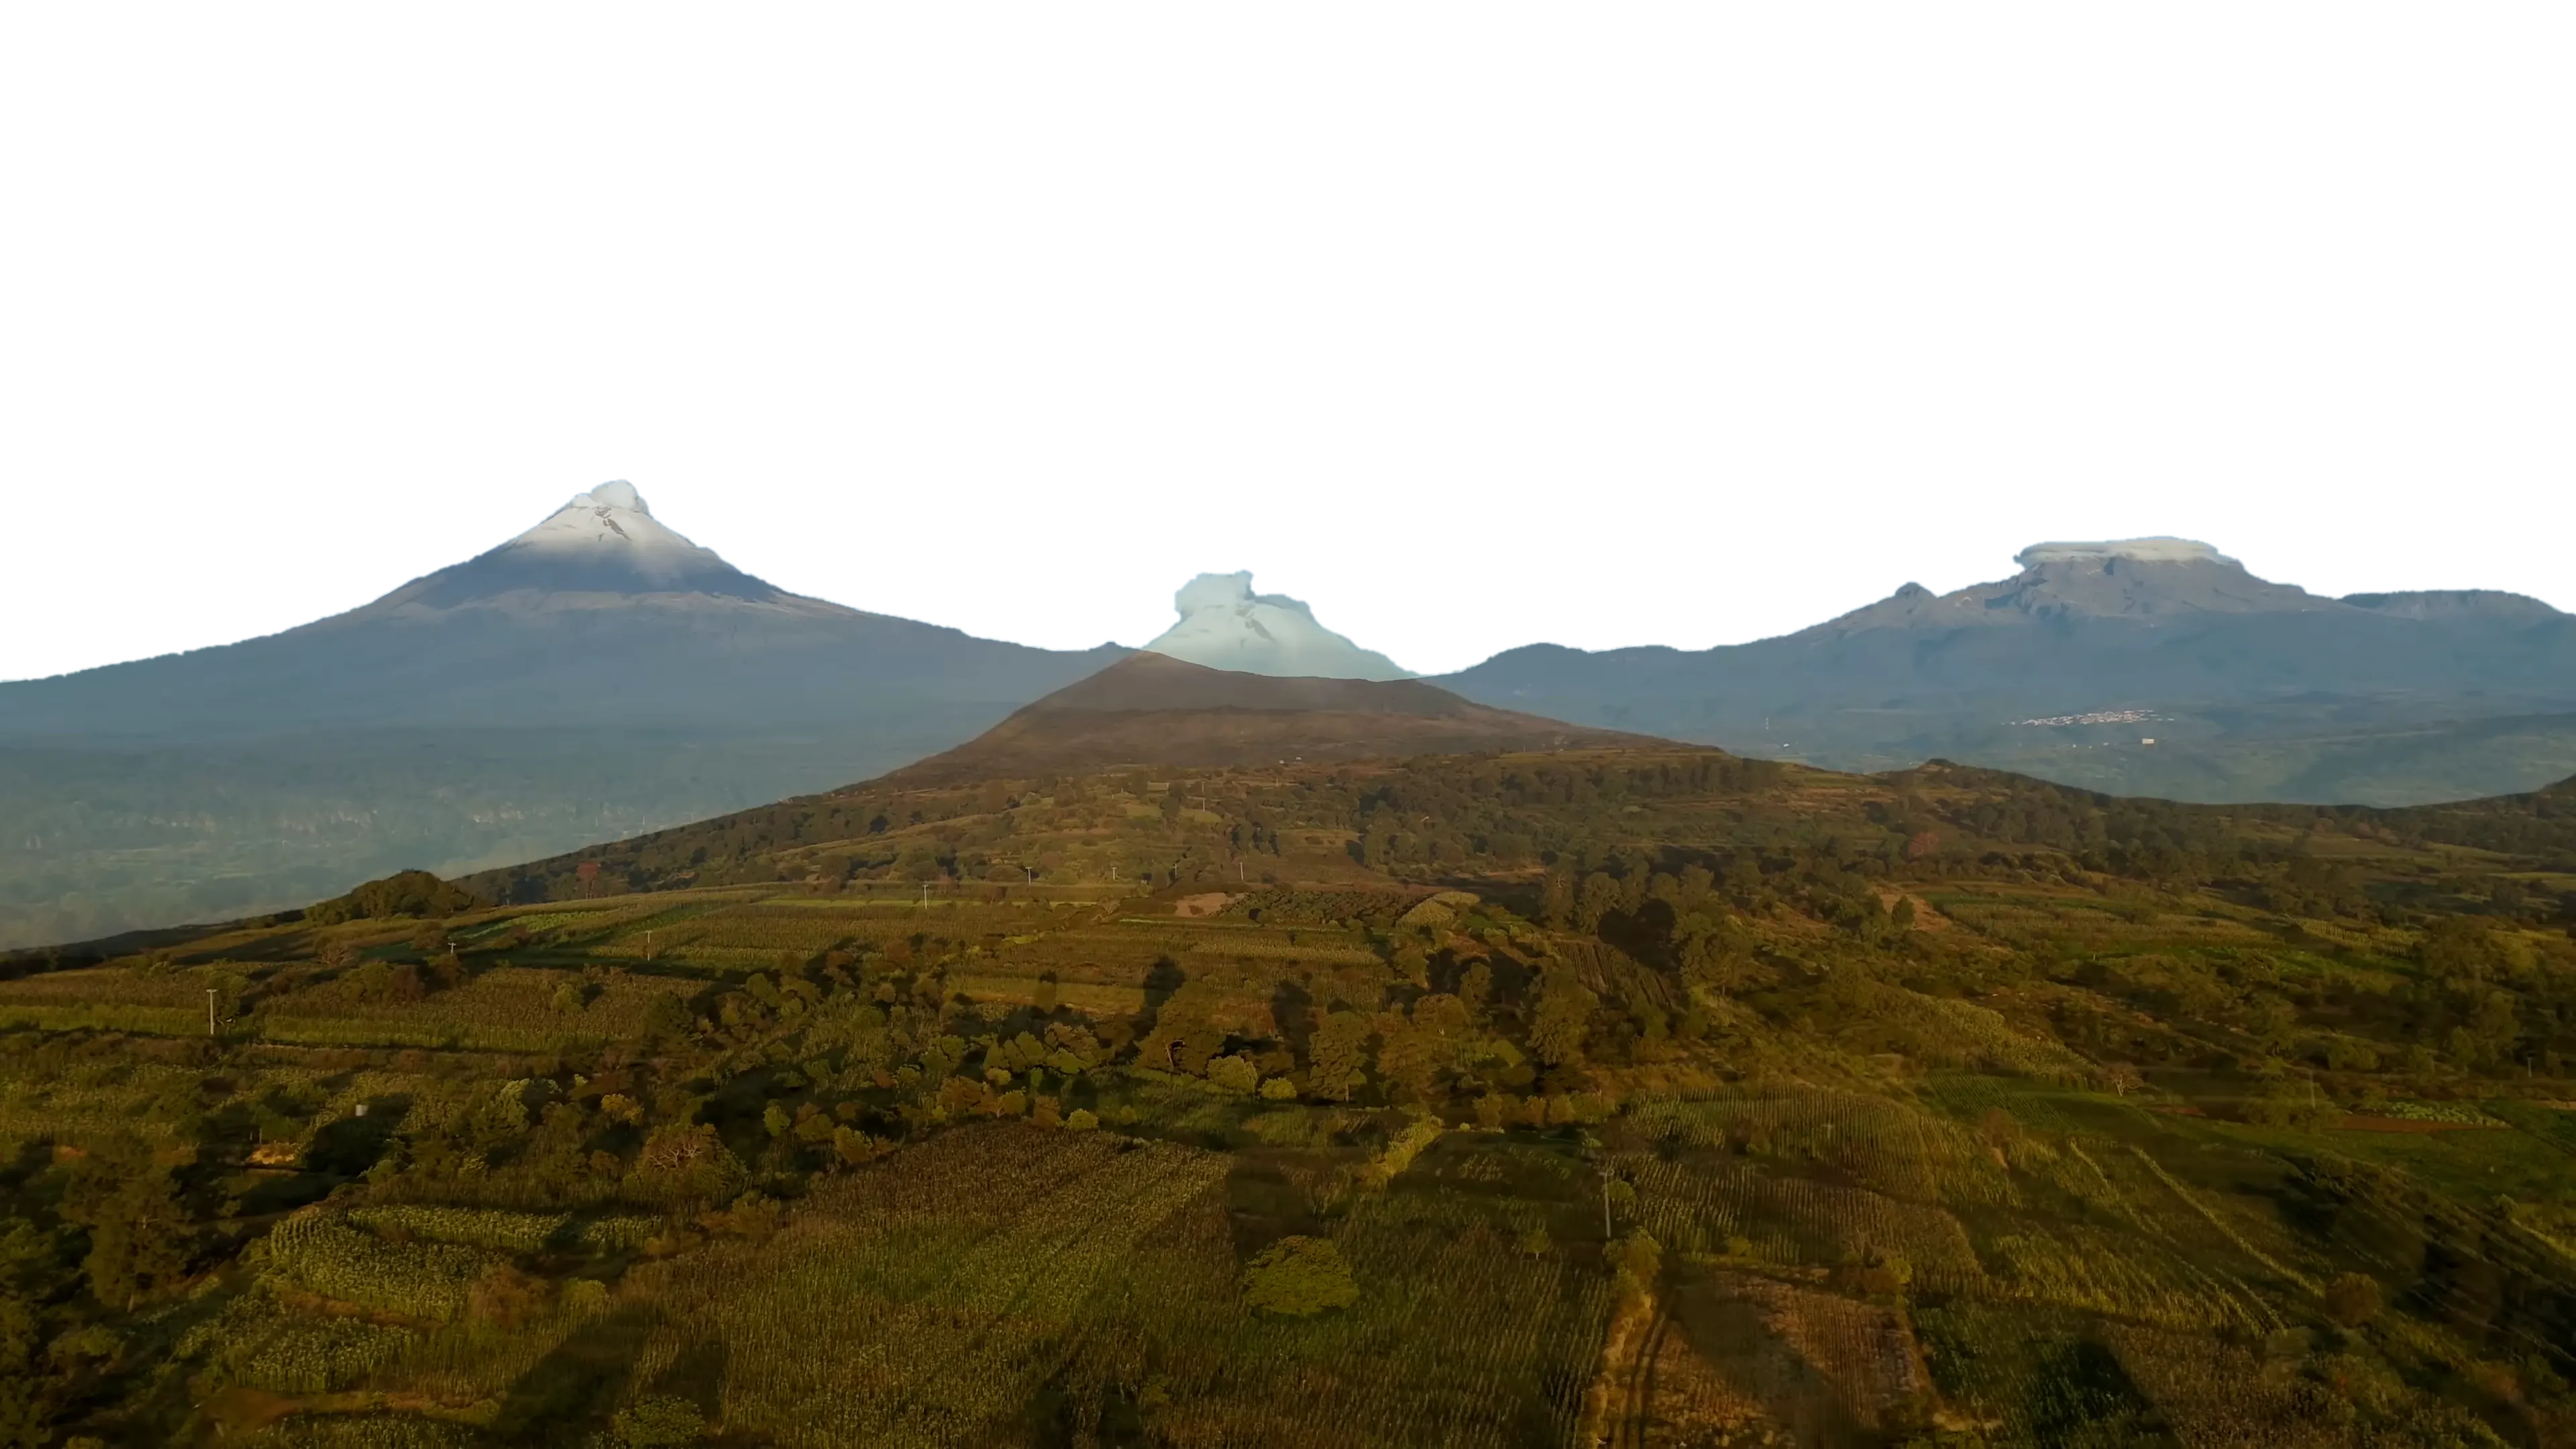
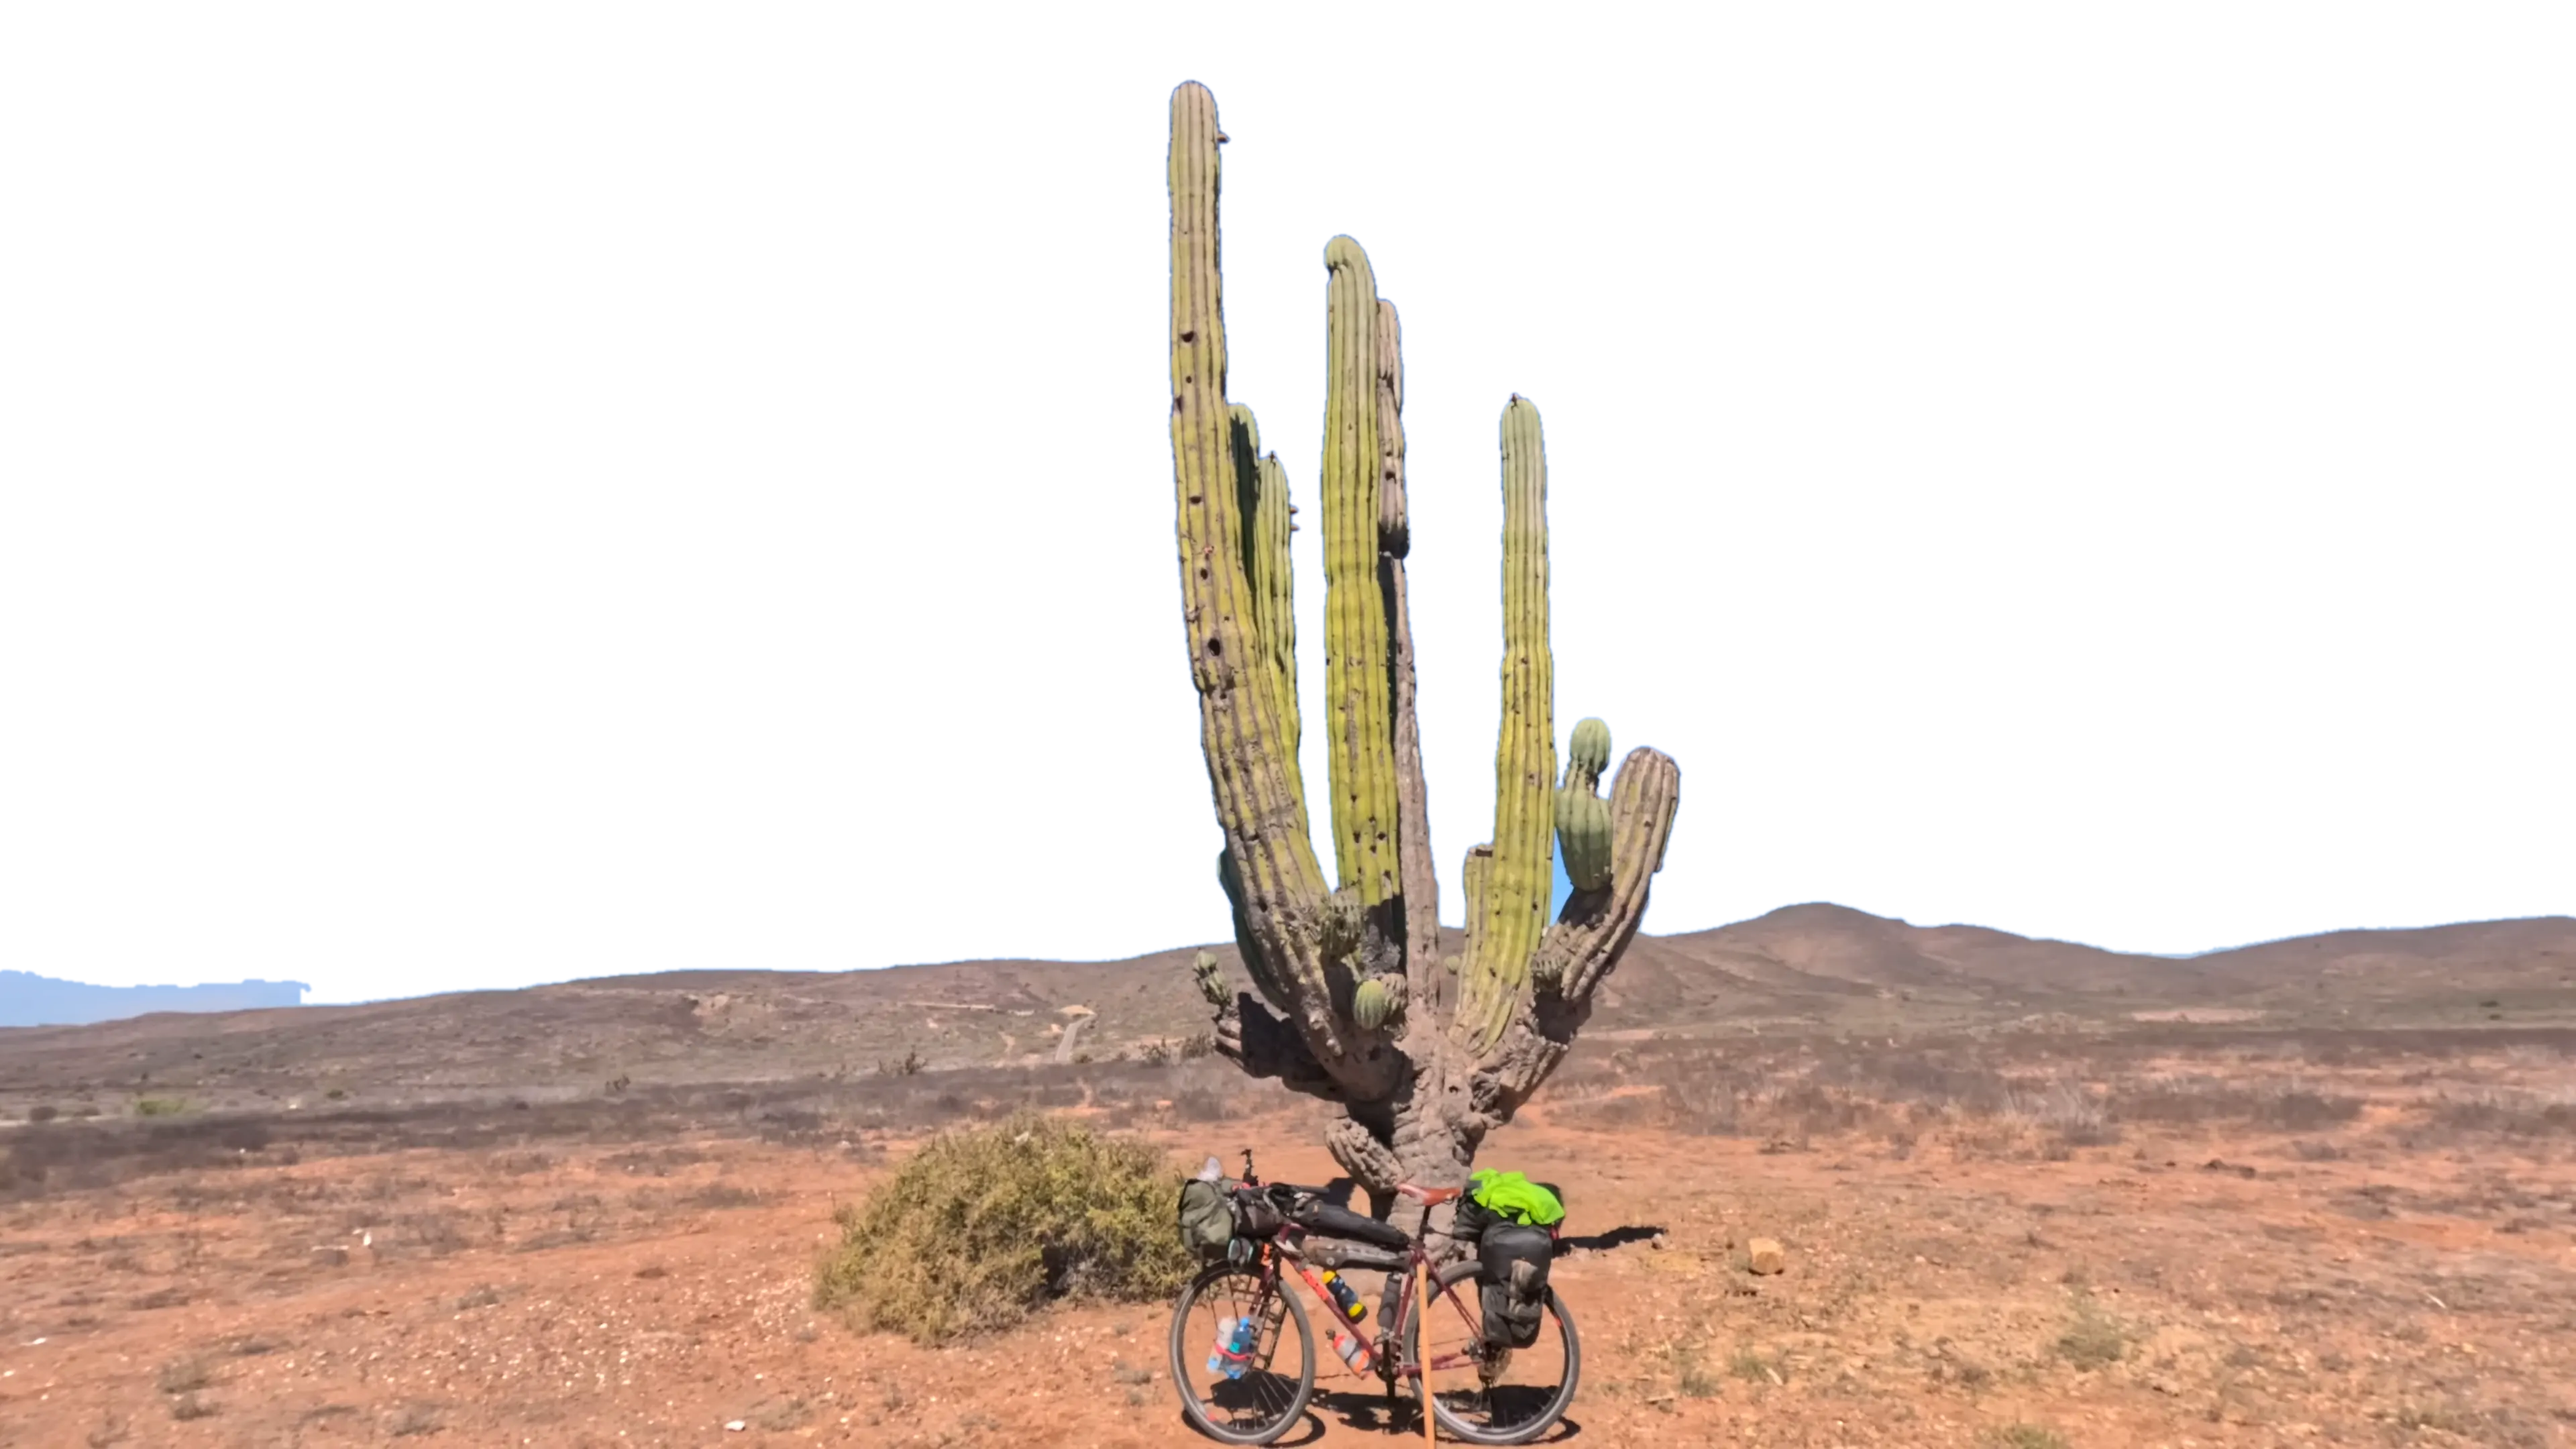
Historias: cabecera de México con el cardón gigante y la bici
Cambia la foto de los volcanes (con la fumarola parecía que había dos volcanes repetidos)
por el cardón de la Baja California del EP.12, una sola figura limpia contra el cielo.
El título se alinea con la columna y acaba donde empieza el cardón, que roza la última
letra; en móvil el encuadre deja el cardón a la derecha. Botón «Empezar a leer» a la derecha.

diff --git a/app/historia-v2.css b/app/historia-v2.css
@@ -11,7 +11,7 @@
 
 /* Cabecera en banda */
 /* Cabecera: foto a sangre con el título por capas; el paisaje recortado pasa por delante de las letras */
-.hv3 .b-hero{position:relative;height:clamp(560px,94svh,940px);overflow:hidden;background:#1d2a26;color:#fff;isolation:isolate;container-type:size;
+.hv3 .b-hero{position:relative;height:clamp(560px,94svh,940px);overflow:hidden;background:#1d2a26;color:#fff;isolation:isolate;container-type:size;--fx:var(--fxd,.5);--fin:var(--find,1);
   --sw:max(100cqw,177.78cqh);--sh:max(100cqh,56.25cqw);--sx:calc((100cqw - var(--sw)) * var(--fx));--sy:calc((100cqh - var(--sh)) * var(--fy));--tw:clamp(230px,calc(var(--sw) * .19),340px)}
 .hv3 .b-escena{position:absolute;left:var(--sx);top:var(--sy);width:var(--sw);height:var(--sh)}
 .hv3 .b-escena img{position:absolute;inset:0;width:100%;height:100%;object-fit:cover;max-width:none}
@@ -19,7 +19,7 @@
 .hv3 .b-hero:before{content:"";position:absolute;inset:0;z-index:4;pointer-events:none;background:linear-gradient(180deg,rgba(14,22,20,.42) 0%,rgba(14,22,20,0) 20%,rgba(14,22,20,0) 62%,rgba(14,22,20,.55) 100%)}
 .hv3 .b-hero-txt{position:absolute;z-index:2;left:0;right:0;bottom:calc(100cqh - var(--sy) - var(--base) * var(--sh));max-width:var(--ancho);margin:0 auto;padding:0 var(--gut)}
 .hv3 .b-hero-pre{margin:0 0 .1em .08em;font:300 clamp(24px,3.2vw,48px)/1.1 var(--sans);letter-spacing:-.01em}
-.hv3 .b-hero h1{font-size:min(calc(var(--sw) * .145),calc((100cqw - 2 * var(--gut)) / (var(--letras) * .54)));line-height:.8;letter-spacing:-.05em;color:#fff;margin-left:-.04em;
+.hv3 .b-hero h1{font-size:min(calc(var(--sw) * var(--tam,.145)),calc((100cqw - 2 * var(--gut)) / (var(--letras) * .54)));line-height:.8;letter-spacing:-.05em;color:#fff;margin-left:-.04em;
   }
 .hv3 .b-trazo{position:absolute;z-index:5;width:var(--tw);height:auto;overflow:visible;left:min(calc(var(--sx) + .7 * var(--sw)),calc(100cqw - var(--gut) - var(--tw)));top:max(100px,calc(var(--sy) + .1 * var(--sh)))}
 .hv3 .b-trazo path{fill:none;stroke:#fff;stroke-width:1.7;stroke-linecap:round;stroke-linejoin:round;vector-effect:non-scaling-stroke}
@@ -31,11 +31,11 @@
 .hv3 .b-trazo .lugar{font-size:15px;font-weight:600}
 .hv3 .b-hero:not(.b-hero--capas) h1{text-shadow:0 6px 40px rgba(0,0,0,.25)}
 .hv3 .b-hero-frente{z-index:3;pointer-events:none}
-.hv3 .b-hero-pie{position:absolute;z-index:5;left:0;right:0;bottom:0;max-width:var(--ancho);margin:0 auto;padding:0 var(--gut) 30px;display:grid;grid-template-columns:1fr auto 1fr;align-items:end;gap:20px;font-size:13.5px}
+.hv3 .b-hero-pie{position:absolute;z-index:5;left:0;right:0;bottom:0;max-width:var(--ancho);margin:0 auto;padding:0 var(--gut) 30px;display:grid;grid-template-columns:1fr auto;align-items:end;gap:20px;font-size:13.5px}
 .hv3 .b-ruta{margin:0;color:rgba(255,255,255,.85)}
 .hv3 .b-ruta a{text-decoration:none}
 .hv3 .b-ruta a:hover{text-decoration:underline;text-underline-offset:4px}
-.hv3 .b-hero-leer{justify-self:center;padding:11px 18px;border:1px solid rgba(255,255,255,.6);border-radius:999px;font:600 13px/1 var(--sans);letter-spacing:.04em;text-decoration:none;color:#fff;transition:background .25s,color .25s}
+.hv3 .b-hero-leer{justify-self:end;padding:11px 18px;border:1px solid rgba(255,255,255,.6);border-radius:999px;font:600 13px/1 var(--sans);letter-spacing:.04em;text-decoration:none;color:#fff;transition:background .25s,color .25s}
 .hv3 .b-hero-leer:hover{background:#fff;color:var(--tinta)}
 .hv3 .b-meta{margin:0;justify-self:end;text-align:right;max-width:28ch;color:rgba(255,255,255,.85);line-height:1.5}
 
@@ -122,7 +122,7 @@
   .hv3 .b-hero{height:clamp(520px,82svh,760px)}
   .hv3 .b-hero-pie{grid-template-columns:1fr auto}
   .hv3 .b-hero .b-meta{display:none}
-  .hv3 .b-trazo{--tw:170px;left:auto;right:var(--gut);top:auto;bottom:96px}
+  .hv3 .b-trazo{--tw:160px;left:var(--gut);right:auto;top:auto;bottom:92px}
   .hv3 .b-hero--capas .b-hero-txt{bottom:calc(100cqh - var(--sy) - (var(--base) - .07) * var(--sh))}
   .hv3 .b-rejilla{display:flex;flex-direction:column}
   .hv3 .b-lado{display:contents}
@@ -153,3 +153,10 @@
 .hv3 .b-videos-arriba .episode-card span{left:10px;right:10px;bottom:7px}
 .hv3 .b-videos-arriba .episode-card strong{font-size:14px}
 @media (max-width:600px){.hv3 .b-videos-arriba{padding-left:var(--gut);margin:-24px calc(var(--gut) * -1) 40px}.hv3 .b-videos-arriba .episode-card{flex-basis:150px}}
+
+/* cabecera por capas: el título empieza y acaba donde dice la foto, para que la figura recortada solo lo roce */
+.hv3 .b-hero--capas .b-hero-txt{--ini:max(var(--gut),calc((100cqw - var(--ancho)) / 2 + var(--gut)),calc(var(--sx) + var(--ix) * var(--sw)));left:var(--ini);right:auto;margin:0;padding:0;max-width:none}
+.hv3 .b-hero--capas .b-hero-txt{--tit:min(calc(var(--sw) * var(--tam)),calc((var(--sx) + var(--fin) * var(--sw) - var(--ini)) / (var(--letras) * .53)))}
+.hv3 .b-hero--capas h1{font-size:var(--tit)}
+.hv3 .b-hero--capas .b-hero-pre{font-size:min(48px,calc(var(--tit) * .26))}
+@media (max-width:980px){.hv3 .b-hero{--fx:var(--fxm,var(--fxd,.5));--fin:var(--finm,var(--find,1))}.hv3 .b-hero--capas .b-hero-txt{bottom:calc(100cqh - var(--sy) - var(--base) * var(--sh))}}

diff --git a/components/HistoriaV2.tsx b/components/HistoriaV2.tsx
@@ -24,8 +24,11 @@ const CONT = (slug: string) => (ORDEN.indexOf(slug) <= 9 ? 'Europa' : ORDEN.inde
 
 // cabecera por capas: foto de fondo, título y, encima, el paisaje recortado (bocetos/historias-v2/recorte_hero.py).
 // fx/fy: punto de la foto que se mantiene a la vista al recortar en pantallas estrechas
-// fx/fy van de 0 a 1; base: altura de la línea base del título en la foto (0 arriba, 1 abajo)
-const CAPAS: Record<string, { fx: number; fy: number; base: number }> = { mexico: { fx: 0.3, fy: 0.4, base: 0.455 } };
+// Medidas en fracciones de la foto (0 a 1). fx/fy: punto que se mantiene a la vista al recortar (fxm en móvil).
+// ix: dónde empieza el título; fin/finm: dónde tiene que acabar como mucho (finm en móvil) (para no quedar tapado); base: línea base; tam: tamaño máximo
+// México: el cardón gigante de la Baja California con la bici (EP.12, 2:28)
+const CAPAS: Record<string, { fx: number; fxm: number; fy: number; ix: number; fin: number; finm: number; base: number; tam: number; alt: string }> = {
+  mexico: { fx: 0.55, fxm: 0.38, fy: 0.62, ix: 0, fin: 0.5, finm: 0.43, base: 0.55, tam: 0.14, alt: 'Un cardón gigante junto a la bici en el desierto de la Baja California' } };
 
 type Trazo = { w: number; h: number; puntos: { x: number; y: number; modo: string }[]; inicio: { lugar: string; ep: number | null }; fin: { lugar: string; ep: number | null } };
 // trazo del recorrido por el país (bocetos/historias-v2/trazos.py): línea continua en bici, discontinua en bus, ferry o avión
@@ -154,11 +157,11 @@ export default function HistoriaV2({ entry }: { entry: Entry }) {
     <div className="hv2 hv3">
       <div dangerouslySetInnerHTML={{ __html: filtroTinta }} />
       <header className={'b-hero' + (capa ? ' b-hero--capas' : '')}
-        style={{ '--fx': capa?.fx ?? 0.5, '--fy': capa?.fy ?? 0.5, '--base': capa?.base ?? 0.62, '--letras': Math.max(6, ...pais.split(' ').map((w) => w.length)) } as React.CSSProperties}>
+        style={{ '--fxd': capa?.fx ?? 0.5, '--fxm': capa?.fxm ?? capa?.fx ?? 0.5, '--fy': capa?.fy ?? 0.5, '--ix': capa?.ix ?? 0, '--find': capa?.fin ?? 1, '--finm': capa?.finm ?? capa?.fin ?? 1, '--base': capa?.base ?? 0.62, '--tam': capa?.tam ?? 0.145, '--letras': Math.max(6, ...pais.split(' ').map((w) => w.length)) } as React.CSSProperties}>
         {/* la escena tiene la proporción de la foto y la cubre entera: el título se ancla a ella y no se descuadra */}
         <div className="b-escena">
           <img className="b-hero-fondo" src={capa ? `/historias/${slug}/hero-fondo.webp` : hero.src} alt={capa ? '' : hero.alt} fetchPriority="high" />
-          {capa ? <img className="b-hero-frente" src={`/historias/${slug}/hero-frente.webp`} alt={hero.alt} /> : null}
+          {capa ? <img className="b-hero-frente" src={`/historias/${slug}/hero-frente.webp`} alt={capa.alt} /> : null}
         </div>
         <div className="b-hero-txt">
           <p className="b-hero-pre">Viajar en bicicleta por</p>
@@ -168,7 +171,6 @@ export default function HistoriaV2({ entry }: { entry: Entry }) {
         <div className="b-hero-pie">
           <p className="b-ruta"><Link href="/portfolio/viajes/">Historias</Link> <span aria-hidden="true">›</span> {CONT(slug)}</p>
           <a className="b-hero-leer" href="#b-leer">Empezar a leer <span aria-hidden="true">↓</span></a>
-          <span />
         </div>
       </header>
 
